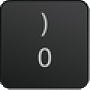
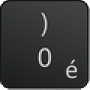
fixing_keys

Changed region(s): [[0.7333, 0.6444, 0.8667, 0.8889]]

diff --git a/templates/index.html b/templates/index.html
@@ -11,7 +11,7 @@
 </head>
 <body>
 	<header>
-        <nav class="navbar navbar-expand-sm navbar-default navbar-dark bg-dark sticky-top">
+        <nav class="navbar navbar-expand-sm navbar-default navbar-dark sticky-top">
             <div class="container-fluid">
                     <a class="navbar-brand">Fyspir</a>
                     <button class="navbar-toggler" type="button" data-bs-toggle="collapse" data-bs-target="#navbarToCollapse" aria-controls="#navbarToCollapse">
@@ -87,12 +87,12 @@
 							<label style="background-image: url('../static/img/keyboard/row01/key11.png');" for="key111"></label>
 							<input type="checkbox" checked name="ok_ltrs" id="key112" value="é">
 							<label style="background-image: url('../static/img/keyboard/row01/key12.png');" for="key112"></label>
-							<input type="checkbox" checked name="ok_ltrs" id="key102" value="=">
-							<label style="background-image: url('../static/img/keyboard/row01/key02.png');" for="key102"></label>
+							<input type="checkbox" checked name="ok_ltrs" id="key103" value="=">
+							<label style="background-image: url('../static/img/keyboard/row01/key03.png');" for="key103"></label>
 							<input type="checkbox" checked name="ok_ltrs" id="key101" value="´">
 							<label for="key101" style="width: 0.1px"></label>							
-							<input type="checkbox" checked name="ok_ltrs" id="key103" value="+">
-							<label style="background-image: url('../static/img/keyboard/row01/key03.png');" for="key103"></label>						
+							<input type="checkbox" checked name="ok_ltrs" id="key102" value="+">
+							<label style="background-image: url('../static/img/keyboard/row01/key02.png');" for="key102"></label>						
 							<input type="checkbox" checked name="ok_ltrs" id="key113" value="">
 							<label for="key113"></label>		
 							</div>     	
@@ -181,7 +181,7 @@
 							<label style="width: 208px;" for="key411"></label>		
 						</div>		
 					</section></section>
-       				<input type="submit" class="form-control btn-dark w-25" id="submit_btn" form="ok_ltrs_form" value="Vytvořit">			    		
+       				<input type="submit" class="form-control text-white w-25" id="submit_btn" form="ok_ltrs_form" value="Vytvořit">			    		
 	    		</form>	    		
 			</section>
 			{% if homework %}

diff --git a/static/main.css b/static/main.css
@@ -15,7 +15,7 @@ header {
 
 }
 
-.navbar {
+.navbar, #submit_btn {
   background:	#292b2c !important;
 }
 
